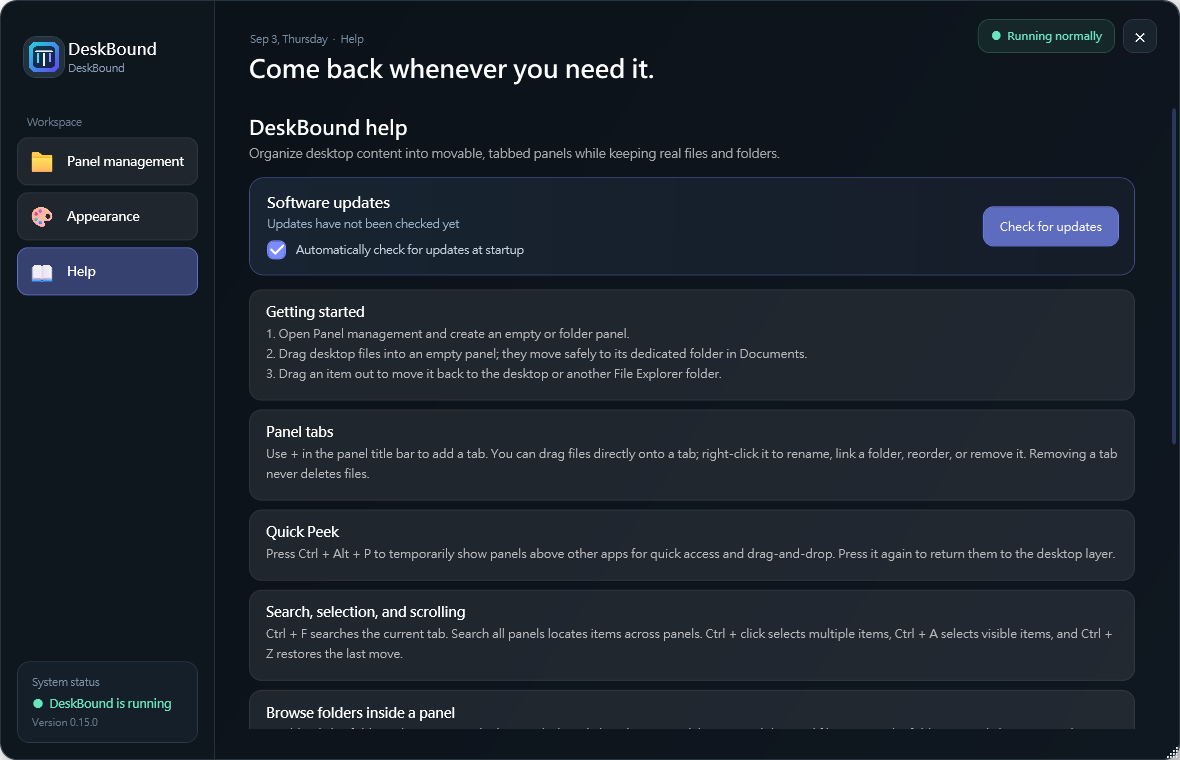
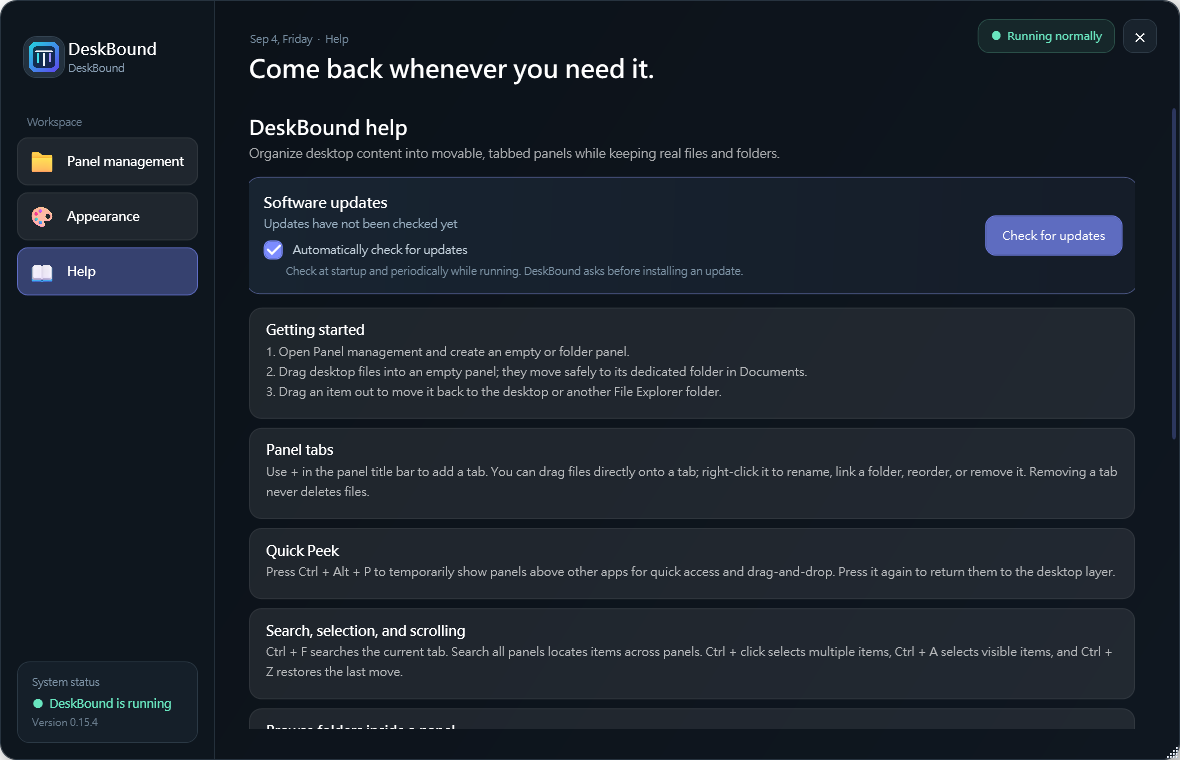
Make automatic updates reliable and protect app shortcuts

diff --git a/src/DeskBound.cs b/src/DeskBound.cs
@@ -31,8 +31,8 @@ using MediaColors = System.Windows.Media.Colors;
 [assembly: AssemblyTitle("桌伴")]
 [assembly: AssemblyProduct("桌伴")]
 [assembly: AssemblyDescription("輕量、漂亮且支援動態桌布的 Windows 桌面圍欄")]
-[assembly: AssemblyVersion("0.15.3.0")]
-[assembly: AssemblyFileVersion("0.15.3.0")]
+[assembly: AssemblyVersion("0.15.4.0")]
+[assembly: AssemblyFileVersion("0.15.4.0")]
 
 namespace DeskBound
 {
@@ -222,7 +222,8 @@ namespace DeskBound
             { "桌伴使用獨立透明桌面視窗，不建立全螢幕遮罩。若動態桌布效能較吃緊，可到「外觀與排列」開啟動態桌布最佳化。", "DeskBound uses independent transparent desktop windows rather than a full-screen overlay. If an animated wallpaper is demanding, enable animated wallpaper optimization under Appearance." },
             { "刪除圍欄或分頁只會移除版面入口，不會刪除資料。發生同名檔案時會自動改名而不是覆蓋；版面設定也會保留上一版備份。", "Deleting a panel or tab only removes its layout entry; it never deletes data. Name collisions are renamed instead of overwritten, and the previous layout is kept as a backup." },
             { "軟體更新", "Software updates" },
-            { "啟動時自動檢查更新", "Automatically check for updates at startup" },
+            { "自動檢查更新", "Automatically check for updates" },
+            { "啟動時及執行期間定期檢查；找到新版後會先詢問，不會強制安裝。", "Check at startup and periodically while running. DeskBound asks before installing an update." },
             { "檢查更新", "Check for updates" },
             { "開始使用", "Getting started" },
             { "圍欄分頁", "Panel tabs" },
@@ -538,6 +539,7 @@ namespace DeskBound
         private readonly DispatcherTimer desktopTimer;
         private readonly DispatcherTimer organizerTimer;
         private readonly DispatcherTimer desktopInboxDebounceTimer;
+        private readonly DispatcherTimer updateTimer;
         private readonly AppSettingsStore settingsStore;
         private readonly AppSettingsModel settings;
         private Forms.NotifyIcon tray;
@@ -553,6 +555,7 @@ namespace DeskBound
         private bool checkingForUpdates;
         private bool downloadingUpdate;
         private string updateStatus = "尚未檢查更新";
+        private DateTime? lastUpdateAttemptUtc;
         private bool visible = true;
         private bool peeking;
         private bool visibleBeforePeek = true;
@@ -592,6 +595,11 @@ namespace DeskBound
                 desktopInboxDebounceTimer.Stop();
                 CollectDesktopInbox(false);
             };
+            updateTimer = new DispatcherTimer { Interval = TimeSpan.FromMinutes(30) };
+            updateTimer.Tick += delegate
+            {
+                if (settings.AutoCheckUpdates && ShouldAutomaticallyCheckForUpdates()) CheckForUpdates(false);
+            };
         }
 
         public void Start()
@@ -615,6 +623,7 @@ namespace DeskBound
             if (!PreviewMode)
             {
                 UpdateService.CleanupStaleDownloads();
+                updateTimer.Start();
                 if (settings.AutoCheckUpdates && ShouldAutomaticallyCheckForUpdates())
                     app.Dispatcher.BeginInvoke(new Action(delegate { CheckForUpdates(false); }));
             }
@@ -693,6 +702,8 @@ namespace DeskBound
 
         private bool ShouldAutomaticallyCheckForUpdates()
         {
+            if (checkingForUpdates || downloadingUpdate || pendingUpdate != null) return false;
+            if (lastUpdateAttemptUtc.HasValue && DateTime.UtcNow - lastUpdateAttemptUtc.Value < TimeSpan.FromMinutes(15)) return false;
             if (!settings.LastUpdateCheckUtc.HasValue) return true;
             return DateTime.UtcNow - settings.LastUpdateCheckUtc.Value > TimeSpan.FromHours(6);
         }
@@ -757,6 +768,7 @@ namespace DeskBound
             }
 
             checkingForUpdates = true;
+            lastUpdateAttemptUtc = DateTime.UtcNow;
             updateStatus = "正在檢查 GitHub 最新版本…";
             NotifyUpdateUi();
             Task.Factory.StartNew<UpdateRelease>(delegate { return UpdateService.GetLatestRelease(); }).ContinueWith(delegate(Task<UpdateRelease> task)
@@ -764,8 +776,6 @@ namespace DeskBound
                 app.Dispatcher.BeginInvoke(new Action(delegate
                 {
                     checkingForUpdates = false;
-                    settings.LastUpdateCheckUtc = DateTime.UtcNow;
-                    settingsStore.Save(settings);
                     if (task.IsFaulted)
                     {
                         Exception error = task.Exception == null ? null : task.Exception.GetBaseException();
@@ -774,6 +784,9 @@ namespace DeskBound
                         if (interactive) AppDialog.Show(error == null ? "請稍後再試。" : error.Message, "無法檢查更新", MessageBoxButton.OK, MessageBoxImage.Warning);
                         return;
                     }
+
+                    settings.LastUpdateCheckUtc = DateTime.UtcNow;
+                    settingsStore.Save(settings);
 
                     UpdateRelease latest = task.Result;
                     Version current = Assembly.GetExecutingAssembly().GetName().Version;
@@ -831,7 +844,7 @@ namespace DeskBound
                         ProcessStartInfo start = new ProcessStartInfo(installer)
                         {
                             UseShellExecute = true,
-                            Arguments = "/VERYSILENT /SUPPRESSMSGBOXES /NORESTART /CLOSEAPPLICATIONS /RESTARTAPPLICATIONS"
+                            Arguments = UpdateInstaller.BuildSetupArguments(Path.GetDirectoryName(Assembly.GetExecutingAssembly().Location))
                         };
                         Process.Start(start);
                         Exit();
@@ -1475,6 +1488,7 @@ namespace DeskBound
                     try
                     {
                         if (string.Equals(Path.GetFileName(path), "desktop.ini", StringComparison.OrdinalIgnoreCase)) continue;
+                        if (IsDeskBoundDesktopShortcut(path)) continue;
                         if (IsIncompleteDownloadPath(path)) continue;
                         FileAttributes attributes = File.GetAttributes(path);
                         if ((attributes & (FileAttributes.Hidden | FileAttributes.System)) != 0) continue;
@@ -1485,6 +1499,13 @@ namespace DeskBound
             }
             catch { }
             return result;
+        }
+
+        internal static bool IsDeskBoundDesktopShortcut(string path)
+        {
+            string name = Path.GetFileName(path ?? "");
+            return string.Equals(name, "桌伴.lnk", StringComparison.OrdinalIgnoreCase) ||
+                string.Equals(name, "DeskBound.lnk", StringComparison.OrdinalIgnoreCase);
         }
 
         internal static bool IsIncompleteDownloadPath(string path)
@@ -1878,6 +1899,7 @@ namespace DeskBound
         {
             desktopTimer.Stop();
             organizerTimer.Stop();
+            updateTimer.Stop();
             desktopInboxDebounceTimer.Stop();
             saveTimer.Stop();
             if (desktopInboxWatcher != null)
@@ -3116,13 +3138,20 @@ namespace DeskBound
             copy.Children.Add(updateStatusText);
             autoUpdateCheck = new CheckBox
             {
-                Content = "啟動時自動檢查更新", IsChecked = manager.IsAutoCheckUpdatesEnabled(),
+                Content = I18n.T("自動檢查更新"), IsChecked = manager.IsAutoCheckUpdatesEnabled(),
                 Foreground = new SolidColorBrush(MediaColor.FromRgb(197, 210, 221)), FontSize = 11.5,
-                VerticalAlignment = VerticalAlignment.Center
+                VerticalAlignment = VerticalAlignment.Center,
+                ToolTip = I18n.T("啟動時及執行期間定期檢查；找到新版後會先詢問，不會強制安裝。")
             };
             autoUpdateCheck.Checked += delegate { manager.SetAutoCheckUpdatesEnabled(true); };
             autoUpdateCheck.Unchecked += delegate { manager.SetAutoCheckUpdatesEnabled(false); };
             copy.Children.Add(autoUpdateCheck);
+            copy.Children.Add(new TextBlock
+            {
+                Text = I18n.T("啟動時及執行期間定期檢查；找到新版後會先詢問，不會強制安裝。"),
+                Foreground = new SolidColorBrush(MediaColor.FromRgb(126, 148, 166)), FontSize = 10.5,
+                TextWrapping = TextWrapping.Wrap, Margin = new Thickness(22, 5, 16, 0)
+            });
             layout.Children.Add(copy);
 
             updateActionButton = new Button
@@ -6663,6 +6692,7 @@ namespace DeskBound
                     try
                     {
                         if (string.Equals(Path.GetFileName(path), "desktop.ini", StringComparison.OrdinalIgnoreCase)) continue;
+                        if (DeskBoundManager.IsDeskBoundDesktopShortcut(path)) continue;
                         FileAttributes attributes = File.GetAttributes(path);
                         if ((attributes & (FileAttributes.Hidden | FileAttributes.System)) != 0) continue;
                         string extension = Path.GetExtension(path).ToLowerInvariant();
@@ -7170,7 +7200,10 @@ namespace DeskBound
                 Assert(ShortcutResolver.NormalizeIconPath("C:/Riot Games/Riot Client/RiotClientServices.exe") ==
                     @"C:\Riot Games\Riot Client\RiotClientServices.exe", "forward-slash icon path normalization");
                 string iconFixture = Path.Combine(testRoot, "launcher icon.ico");
-                Assert(ShellIconCache.Get(iconFixture) == null, "missing icon is not cached as a permanent failure");
+                // Different Windows shell versions may return either null or a generic
+                // icon for a missing path. In both cases, creating the icon afterwards
+                // must yield the real image rather than preserving the earlier result.
+                ShellIconCache.Get(iconFixture);
                 using (FileStream stream = File.Create(iconFixture)) Drawing.SystemIcons.Application.Save(stream);
                 string urlFixture = Path.Combine(testRoot, "launcher.url");
                 File.WriteAllText(urlFixture, "[InternetShortcut]\r\nURL=https://example.invalid/\r\nIconFile=" +
@@ -7185,10 +7218,40 @@ namespace DeskBound
                 Version parsedUpdateVersion;
                 Assert(UpdateService.TryParseVersion("v0.13.0", out parsedUpdateVersion) && parsedUpdateVersion == new Version(0, 13, 0),
                     "update version parsing");
+                string setupArguments = UpdateInstaller.BuildSetupArguments(@"C:\Apps & Tools\DeskBound");
+                Assert(setupArguments.Contains("/DIR=\"C:\\Apps & Tools\\DeskBound\"") && setupArguments.Contains("/RESTARTAPPLICATIONS"),
+                    "portable update keeps current install directory");
+                Assert(DeskBoundManager.IsDeskBoundDesktopShortcut(@"C:\Users\Test\Desktop\桌伴.lnk") &&
+                    DeskBoundManager.IsDeskBoundDesktopShortcut(@"C:\Users\Test\Desktop\DeskBound.lnk") &&
+                    !DeskBoundManager.IsDeskBoundDesktopShortcut(@"C:\Users\Test\Desktop\Notes.lnk"), "desktop app shortcut exclusion");
                 string updateJson = "{\"tag_name\":\"v0.15.0\",\"html_url\":\"https://github.com/bestdrduck/DeskBound/releases/tag/v0.15.0\",\"assets\":[{\"name\":\"DeskBound-Setup.exe\",\"browser_download_url\":\"https://example.invalid/DeskBound-Setup.exe\",\"size\":376832,\"digest\":\"sha256:abc\"}]}";
                 UpdateRelease parsedRelease = UpdateService.ParseLatestRelease(updateJson);
                 Assert(parsedRelease.Version == new Version(0, 15, 0) && parsedRelease.DownloadUrl.EndsWith("DeskBound-Setup.exe") && parsedRelease.AssetSize == 376832,
                     "update release parsing");
+                string installerFixture = Path.Combine(testRoot, "published-setup.exe");
+                byte[] installerBytes = new byte[120000];
+                installerBytes[0] = (byte)'M'; installerBytes[1] = (byte)'Z';
+                for (int index = 2; index < installerBytes.Length; index++) installerBytes[index] = (byte)(index % 251);
+                File.WriteAllBytes(installerFixture, installerBytes);
+                string installerDigest;
+                using (SHA256 sha = SHA256.Create())
+                    installerDigest = BitConverter.ToString(sha.ComputeHash(installerBytes)).Replace("-", "").ToLowerInvariant();
+                string isolatedUpdateRoot = Path.Combine(testRoot, "updates");
+                UpdateRelease installerRelease = new UpdateRelease
+                {
+                    Version = new Version(9, 9, 9), DownloadUrl = new Uri(installerFixture).AbsoluteUri,
+                    AssetSize = installerBytes.Length, Digest = "sha256:" + installerDigest
+                };
+                string verifiedInstaller = UpdateService.DownloadRelease(installerRelease, isolatedUpdateRoot);
+                Assert(File.Exists(verifiedInstaller) && new FileInfo(verifiedInstaller).Length == installerBytes.Length,
+                    "isolated updater download and verification");
+                installerRelease.Version = new Version(9, 9, 8);
+                installerRelease.Digest = "sha256:" + new string('0', 64);
+                bool invalidDigestRejected = false;
+                try { UpdateService.DownloadRelease(installerRelease, isolatedUpdateRoot); }
+                catch (InvalidDataException) { invalidDigestRejected = true; }
+                Assert(invalidDigestRejected && !Directory.EnumerateFiles(isolatedUpdateRoot, "*.download").Any(),
+                    "invalid update digest rejection and cleanup");
                 AppSettingsModel migratedSettings = new AppSettingsModel { SchemaVersion = 0 };
                 Assert(AppSettingsStore.Migrate(migratedSettings, 0) && migratedSettings.SchemaVersion == AppSettingsModel.CurrentSchemaVersion,
                     "settings schema migration");
@@ -7205,7 +7268,7 @@ namespace DeskBound
                     AppearanceMath.OutlineBorderAlpha(0.20) < AppearanceMath.OutlineBorderAlpha(1.0), "opacity endpoints");
 
                 File.WriteAllText(report, "PASS\r\nmove-in: PASS\r\nsource-removal: PASS\r\nmove-out: PASS\r\nundo: PASS\r\nundo-persistence: PASS\r\ntab-persistence: PASS\r\nview-preference-persistence: PASS\r\ninbox-new-item-detection: PASS\r\ninbox-partial-download-guard: PASS\r\ninbox-file-folder-move: PASS\r\ninbox-undo: PASS\r\ninbox-history-rules-persistence: PASS\r\nautomatic-update-default: PASS\r\nsettings-schema-migration: PASS\r\nlanguage-migration-default: PASS\r\nEnglish-localization: PASS\r\nTraditional-Chinese-localization: PASS\r\norganizer-defaults: PASS\r\noutline-opacity-response: PASS\r\nopacity-endpoints: PASS\r\ncollision-no-overwrite: PASS\r\ncross-volume-fallback: PASS\r\nlayout-backup-recovery: PASS\r\nlayout-reduction-guard: PASS\r\nmanaged-folder-recovery: PASS\r\nunreadable-layout-protection: PASS\r\nsettings-backup-recovery: PASS\r\nunreadable-settings-protection: PASS\r\nstartup-command: PASS\r\nupdate-version-parsing: PASS\r\nupdate-release-parsing: PASS\r\ncontent-integrity: PASS\r\n");
-                File.AppendAllText(report, "early-startup-task: PASS\r\nicon-path-normalization: PASS\r\nicon-index: PASS\r\nlate-icon-retry: PASS\r\nbackground-icons: PASS\r\n");
+                File.AppendAllText(report, "early-startup-task: PASS\r\nicon-path-normalization: PASS\r\nicon-index: PASS\r\nlate-icon-retry: PASS\r\nbackground-icons: PASS\r\nportable-update-directory: PASS\r\ndesktop-shortcut-exclusion: PASS\r\nisolated-update-download: PASS\r\ninvalid-update-cleanup: PASS\r\n");
                 return 0;
             }
             catch (Exception ex)
@@ -7326,33 +7389,47 @@ namespace DeskBound
 
         public static string DownloadRelease(UpdateRelease release)
         {
+            return DownloadRelease(release, GetUpdateRoot());
+        }
+
+        internal static string DownloadRelease(UpdateRelease release, string root)
+        {
             if (release == null || string.IsNullOrWhiteSpace(release.DownloadUrl)) throw new ArgumentException("沒有可下載的更新檔案。");
-            string root = GetUpdateRoot();
+            if (string.IsNullOrWhiteSpace(root)) throw new ArgumentException("更新暫存位置不能是空白。", "root");
+            root = Path.GetFullPath(root);
             Directory.CreateDirectory(root);
             string safeVersion = release.Version == null ? "latest" : release.Version.ToString(3);
             string partial = Path.Combine(root, "DeskBound-Setup-" + safeVersion + ".download");
             string completed = Path.Combine(root, "DeskBound-Setup-" + safeVersion + ".exe");
             try { if (File.Exists(partial)) File.Delete(partial); } catch { }
 
-            ServicePointManager.SecurityProtocol |= (SecurityProtocolType)3072;
-            using (WebClient client = new WebClient())
+            try
             {
-                client.Headers[HttpRequestHeader.UserAgent] = "DeskBound/" + Assembly.GetExecutingAssembly().GetName().Version.ToString(3);
-                client.Headers[HttpRequestHeader.Accept] = "application/octet-stream";
-                client.DownloadFile(release.DownloadUrl, partial);
-            }
+                ServicePointManager.SecurityProtocol |= (SecurityProtocolType)3072;
+                using (WebClient client = new WebClient())
+                {
+                    client.Headers[HttpRequestHeader.UserAgent] = "DeskBound/" + Assembly.GetExecutingAssembly().GetName().Version.ToString(3);
+                    client.Headers[HttpRequestHeader.Accept] = "application/octet-stream";
+                    client.DownloadFile(release.DownloadUrl, partial);
+                }
 
-            FileInfo downloaded = new FileInfo(partial);
-            if (!downloaded.Exists || downloaded.Length < 100000) throw new InvalidDataException("下載的更新檔案不完整。");
-            if (release.AssetSize > 0 && downloaded.Length != release.AssetSize) throw new InvalidDataException("更新檔案大小與 GitHub 資料不符。");
-            using (FileStream stream = File.OpenRead(partial))
-            {
-                if (stream.ReadByte() != 'M' || stream.ReadByte() != 'Z') throw new InvalidDataException("下載內容不是有效的 Windows 程式。");
+                FileInfo downloaded = new FileInfo(partial);
+                if (!downloaded.Exists || downloaded.Length < 100000) throw new InvalidDataException("下載的更新檔案不完整。");
+                if (release.AssetSize > 0 && downloaded.Length != release.AssetSize) throw new InvalidDataException("更新檔案大小與 GitHub 資料不符。");
+                using (FileStream stream = File.OpenRead(partial))
+                {
+                    if (stream.ReadByte() != 'M' || stream.ReadByte() != 'Z') throw new InvalidDataException("下載內容不是有效的 Windows 程式。");
+                }
+                VerifyDigest(partial, release.Digest);
+                if (File.Exists(completed)) File.Delete(completed);
+                File.Move(partial, completed);
+                return completed;
             }
-            VerifyDigest(partial, release.Digest);
-            if (File.Exists(completed)) File.Delete(completed);
-            File.Move(partial, completed);
-            return completed;
+            catch
+            {
+                try { if (File.Exists(partial)) File.Delete(partial); } catch { }
+                throw;
+            }
         }
 
         internal static void VerifyDigest(string path, string digest)
@@ -7453,6 +7530,17 @@ namespace DeskBound
                 catch { }
                 return 1;
             }
+        }
+
+        internal static string BuildSetupArguments(string installDirectory)
+        {
+            if (string.IsNullOrWhiteSpace(installDirectory)) throw new ArgumentException("更新位置不能是空白。", "installDirectory");
+            string fullDirectory = Path.GetFullPath(installDirectory);
+            string trimmed = fullDirectory.TrimEnd(Path.DirectorySeparatorChar, Path.AltDirectorySeparatorChar);
+            string root = Path.GetPathRoot(fullDirectory);
+            string directory = string.Equals(trimmed, (root ?? "").TrimEnd(Path.DirectorySeparatorChar, Path.AltDirectorySeparatorChar),
+                StringComparison.OrdinalIgnoreCase) ? root : trimmed;
+            return "/VERYSILENT /SUPPRESSMSGBOXES /NORESTART /CLOSEAPPLICATIONS /RESTARTAPPLICATIONS /DIR=" + Quote(directory);
         }
 
         private static string FileDigest(string path)

diff --git a/README.md b/README.md
@@ -47,11 +47,11 @@ DeskBound is a lightweight desktop organizer for Windows 10 and Windows 11. It g
 
 ## Install and update
 
-Download `DeskBound-Setup.exe` from [GitHub Releases](https://github.com/bestdrduck/DeskBound/releases/latest). The installer lets you choose where DeskBound is installed and remembers that location for future upgrades. First launch starts with an empty layout and never moves existing desktop items automatically.
+Download `DeskBound-Setup.exe` from [GitHub Releases](https://github.com/bestdrduck/DeskBound/releases/latest). The installer lets you choose where DeskBound is installed, creates a desktop shortcut, and remembers that location for future upgrades. First launch starts with an empty layout and never moves existing desktop items automatically.
 
 DeskBound is not code-signed yet, so Windows SmartScreen may show a warning on first install.
 
-From version 0.14.0 onward, DeskBound downloads the official Setup asset, verifies its integrity when GitHub provides a SHA-256 digest, and performs the upgrade through Setup. Users of the older portable 0.13 release need to run Setup once to switch to this update path.
+DeskBound checks for updates at startup and every six hours while it remains open. It downloads the official Setup asset, verifies its SHA-256 digest, asks before installing, and upgrades in the current application directory. Users of the older portable 0.13 release need to run Setup once to switch to this update path.
 
 ## Your data stays separate
 

diff --git a/docs/releases/v0.15.4.md b/docs/releases/v0.15.4.md
@@ -1,0 +1,19 @@
+## What's new
+
+- DeskBound now checks for updates periodically while it remains open, not only at startup.
+- Update checks retry sooner after a temporary network failure.
+- Installer updates keep the current application directory, including portable-style locations.
+- Setup creates a desktop shortcut by default, and DeskBound protects its own shortcut from Desktop Inbox and Smart Organize.
+- Failed or invalid update downloads are removed immediately.
+
+The update flow was verified by installing the published v0.15.3 Setup into an isolated directory, upgrading it in place to v0.15.4, and uninstalling it again. Existing layout and settings files remained unchanged.
+
+## 繁體中文
+
+- 桌伴持續開啟時也會定期檢查更新，不再只於啟動時檢查。
+- 暫時無法連線時會較快重試，不會直接等待六小時。
+- 使用安裝檔更新時會沿用目前程式位置，包含類似免安裝版的位置。
+- Setup 預設建立桌面捷徑；桌面收件匣與智慧整理不會收走桌伴自己的捷徑。
+- 下載失敗或完整性驗證失敗時，會立即移除未完成的更新檔。
+
+這次已在隔離資料夾中安裝公開版 v0.15.3、原地升級至 v0.15.4，再正常解除安裝；既有版面與設定檔全程保持不變。

diff --git a/README.zh-TW.md b/README.zh-TW.md
@@ -47,11 +47,11 @@
 
 ## 安裝與更新
 
-請從 [GitHub Releases](https://github.com/bestdrduck/DeskBound/releases/latest) 下載 `DeskBound-Setup.exe`。第一次安裝可以自訂位置，日後升級會沿用同一位置。首次啟動保持空白，也不會擅自移動原本的桌面項目。
+請從 [GitHub Releases](https://github.com/bestdrduck/DeskBound/releases/latest) 下載 `DeskBound-Setup.exe`。第一次安裝可以自訂位置並建立桌面捷徑，日後升級會沿用同一位置。首次啟動保持空白，也不會擅自移動原本的桌面項目。
 
 桌伴目前尚未加入程式碼簽章，因此第一次安裝時 Windows SmartScreen 可能會顯示提醒。
 
-從 0.14.0 起，桌伴會下載正式安裝檔，在 GitHub 提供 SHA-256 摘要時先核對內容，再交由 Setup 完成升級。使用舊版 0.13 免安裝檔的使用者，需要先手動執行一次 Setup，之後便能使用新的更新流程。
+桌伴會在啟動時及持續執行期間每六小時檢查更新，下載正式安裝檔並核對 SHA-256 摘要，經使用者確認後在目前的程式位置完成升級。使用舊版 0.13 免安裝檔的使用者，需要先手動執行一次 Setup，之後便能使用新的更新流程。
 
 ## 資料獨立保存
 
